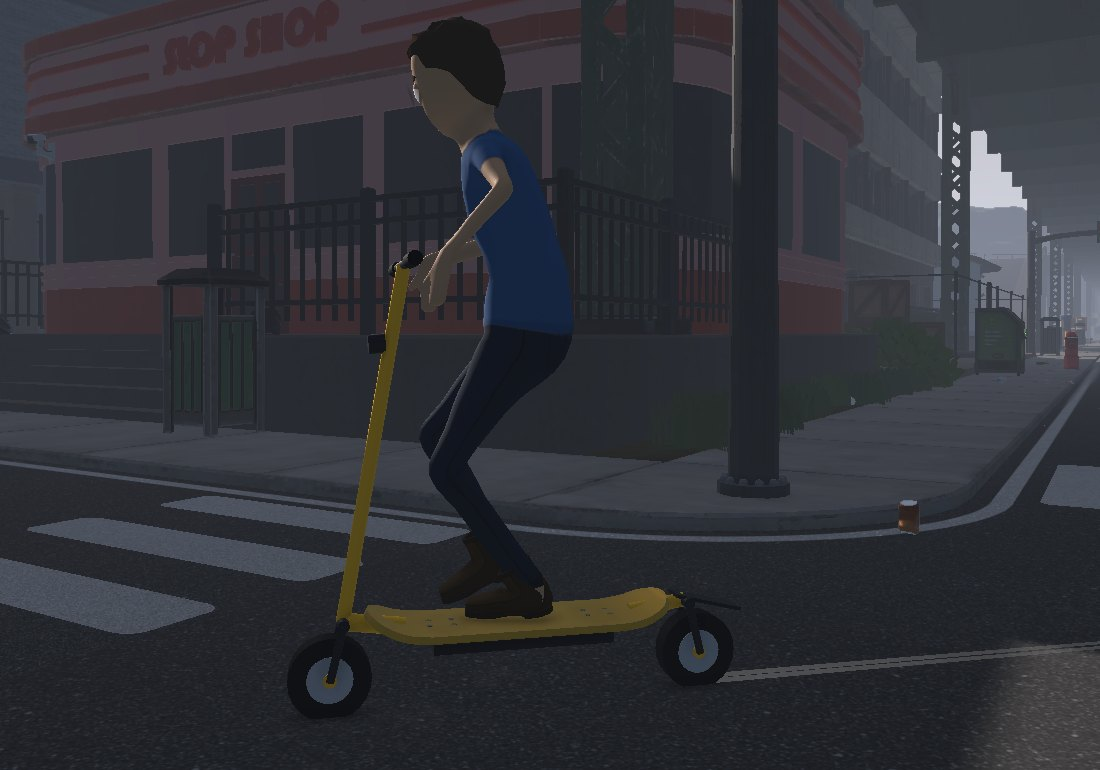
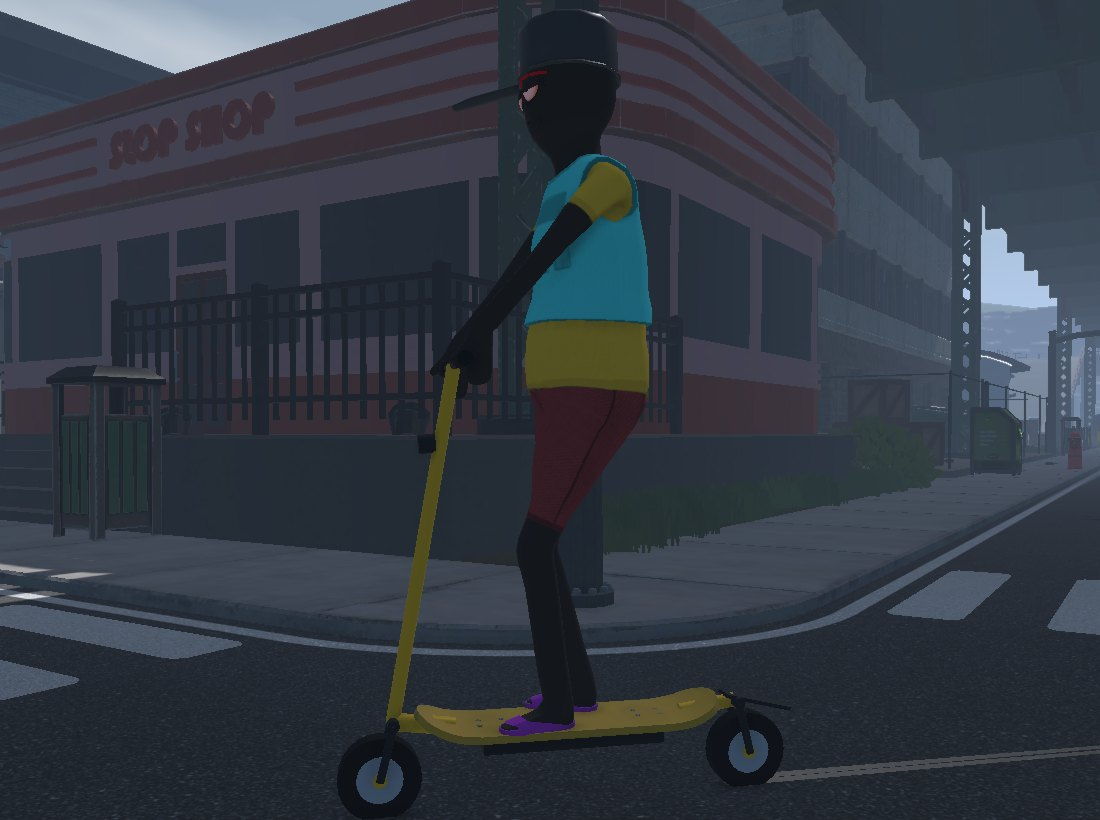
Electric Scooter 1.1.0: no shop stutter, forward stance, no kick
- The skate shop's seller is looked for once per loaded save instead of
  through every loaded object every 3 seconds (a short stutter on big
  saves, found by RebornReaper).
- The rider stands facing forward with both feet on the deck and no
  longer kicks the road when the scooter speeds up.
- Mounting lifted the board twice, so it dropped from up to 70 cm and
  could throw the rider off with a high StepHeightCm.
- Tests: mount height and seller search checks, a push screenshot, and a
  retry when the player falls through the ground after a teleport.
- make_media picks the newest run by its time stamp; new ride images.

diff --git a/mods/ElectricScooter/src/ScooterModel.cs b/mods/ElectricScooter/src/ScooterModel.cs
@@ -41,6 +41,7 @@ internal static class ScooterModel
         _riddenAnimation = board.Animation;
         if (_ridden == null)
             return;
+        Pose(board, _ridden);
         // The speed trails of the skateboard's rear wheels move down to where the scooter's wheel meets the road.
         var effects = UiKit.Get<S1.Skating.SkateboardEffects>(board);
         if (effects == null || effects.Trails == null)
@@ -218,6 +219,77 @@ internal static class ScooterModel
 
     private static bool _handsFailed;
 
+    /// <summary>Feet: how far apart (each from the middle) and how far the left one is ahead of the right.</summary>
+    private const float FootSpread = 0.075f;
+    private const float FootStagger = 0.1f;
+
+    /// <summary>
+    /// The rider stands on the scooter facing forward, feet side by side, instead of sideways like on a
+    /// skateboard; and he no longer kicks the road (the motor pushes). The rider's body follows targets
+    /// on the board (feet, knees, pelvis, spine, hands) and looks at a point to the front right: the
+    /// hips and feet are turned forward, the feet and knees put on the narrow deck, and the point moved
+    /// straight ahead. A push moves the body from a resting set of targets to a kicking one; both are
+    /// made the resting one.
+    /// </summary>
+    private static void Pose(S1.Skating.Skateboard board, Transform parts)
+    {
+        try
+        {
+            var animation = board.Animation;
+            foreach (var set in new[]
+                     {
+                         animation.PelvisContainerAlignment, animation.PelvisAlignment, animation.SpineContainerAlignment, animation.SpineAlignment,
+                         animation.LeftFootAlignment, animation.RightFootAlignment, animation.LeftLegBendTarget, animation.RightLegBendTarget,
+                         animation.LeftHandAlignment, animation.RightHandAlignment,
+                     })
+            {
+                if (set != null && set.Default != null)
+                    set.Animated = set.Default;
+            }
+            var up = parts.up;
+            var hips = Vector3.ProjectOnPlane(animation.PelvisAlignment.Transform.forward, up);
+            var turn = Quaternion.AngleAxis(Vector3.SignedAngle(hips, parts.forward, up), up);
+            // The pelvis container carries the spine and the hands with it.
+            Turn(animation.PelvisContainerAlignment, turn);
+            Turn(animation.LeftFootAlignment, turn);
+            Turn(animation.RightFootAlignment, turn);
+            if (animation.AvatarFaceTarget != null)
+                animation.AvatarFaceTarget.position = parts.TransformPoint(new Vector3(0f, 1.7f, 2f));
+            Put(animation.LeftFootAlignment, parts, -FootSpread, FootStagger / 2f);
+            Put(animation.RightFootAlignment, parts, FootSpread, -FootStagger / 2f);
+            // Knees bend forward, over the toes.
+            PutAt(animation.LeftLegBendTarget, parts.TransformPoint(new Vector3(-0.12f, 0.45f, 0.8f)));
+            PutAt(animation.RightLegBendTarget, parts.TransformPoint(new Vector3(0.12f, 0.45f, 0.8f)));
+        }
+        catch (Exception ex)
+        {
+            MelonLogger.Warning($"Electric Scooter: the rider keeps the skateboard stance: {ex.Message}");
+        }
+    }
+
+    /// <summary>A foot on the deck at x / z in the deck's frame, at the height the game gave it.</summary>
+    private static void Put(S1.Skating.SkateboardAnimation.AlignmentSet set, Transform parts, float x, float z)
+    {
+        var height = parts.InverseTransformPoint(set.Transform.parent.TransformPoint(set.Default.localPosition)).y;
+        PutAt(set, parts.TransformPoint(new Vector3(x, height, z)));
+    }
+
+    private static void Turn(S1.Skating.SkateboardAnimation.AlignmentSet set, Quaternion turn)
+    {
+        var local = Quaternion.Inverse(set.Transform.parent.rotation) * turn * set.Transform.rotation;
+        set.Default.localRotation = local;
+        set.Animated = set.Default;
+        set.Transform.localRotation = local;
+    }
+
+    private static void PutAt(S1.Skating.SkateboardAnimation.AlignmentSet set, Vector3 world)
+    {
+        var local = set.Transform.parent.InverseTransformPoint(world);
+        set.Default.localPosition = local;
+        set.Animated = set.Default;
+        set.Transform.localPosition = local;
+    }
+
     private static void Place(S1.Skating.SkateboardAnimation animation, Vector3 grip, params S1.Skating.SkateboardAnimation.AlignmentSet[] sets)
     {
         var local = animation.HandContainer.InverseTransformPoint(grip);
@@ -247,6 +319,25 @@ internal static class ScooterModel
             if (child.name is "Column" or "Handlebar" or "Tyre")
                 sb.AppendLine().Append($"  {child.name}: {root.InverseTransformPoint(child.position)} up {root.InverseTransformDirection(child.up)} size {child.lossyScale}");
         }
+        return sb.ToString();
+    }
+
+    /// <summary>Where the rider's targets are, in the deck's frame (x right, y up, z forward).</summary>
+    public static string DescribePose(S1.Skating.Skateboard board)
+    {
+        var parts = FindParts(board.transform);
+        if (parts == null)
+            return "no parts";
+        var a = board.Animation;
+        string At(Transform? t) => t == null ? "none" : $"{parts.InverseTransformPoint(t.position).ToString("F3")} forward {parts.InverseTransformDirection(t.forward).ToString("F2")}";
+        var sb = new System.Text.StringBuilder();
+        sb.Append($"player container {At(board.PlayerContainer)}; targets {UnityQuery.PathOf(board.PlayerContainer.parent)}; face target {At(a.AvatarFaceTarget)}; push animation on {(a.IKAnimation != null ? UnityQuery.PathOf(a.IKAnimation.transform) : "none")}");
+        foreach (var (name, set) in new[]
+                 {
+                     ("pelvis", a.PelvisAlignment), ("spine", a.SpineAlignment), ("left foot", a.LeftFootAlignment), ("right foot", a.RightFootAlignment),
+                     ("left knee", a.LeftLegBendTarget), ("right knee", a.RightLegBendTarget), ("left hand", a.LeftHandAlignment), ("right hand", a.RightHandAlignment),
+                 })
+            sb.AppendLine().Append($"  {name}: {At(set.Transform)}; resting {set.Default.name}, animated {(set.Animated != null ? UnityQuery.PathOf(set.Animated) : "none")}");
         return sb.ToString();
     }
 #endif

diff --git a/mods/ElectricScooter/src/Dev/ScooterSmoke.cs b/mods/ElectricScooter/src/Dev/ScooterSmoke.cs
@@ -339,15 +339,38 @@ internal static class ScooterSmoke
         inventory.Equip(slot!);
         yield return 0.6f;
         DevSmoke.Check(UnityQuery.TryCastTo<S1.Skating.Skateboard_Equippable>(inventory.Equippable, out var equippable), $"{itemId} is not held as a skateboard");
+        // Now and then the player drops through the ground after the teleport, already before the scooter
+        // is taken in hand: put him back rather than test the ride in free fall.
+        for (var tries = 0; tries < 3 && player.transform.position.y < lane.Start.y - 1f; tries++)
+        {
+            DevSmoke.Log($"The player fell through the ground (y {F(player.transform.position.y)}) before getting on {itemId}: teleporting again");
+            movement.Teleport(lane.Start + Vector3.up * 0.15f);
+            yield return 1f;
+            player.transform.rotation = Quaternion.LookRotation(lane.Direction, Vector3.up);
+        }
         if (screenshot != null)
             yield return DevSmoke.Screenshot(screenshot + "_held");
         equippable.Mount();
         yield return DevSmoke.WaitUntil(() => player.ActiveSkateboard != null, 5f, "mounting " + itemId);
         var board = player.ActiveSkateboard;
-        yield return 0.8f;
+        var settle = new StringBuilder();
+        var mounted = Time.time;
+        // The scooter is put on its wheels at once: never higher than that, no drop from above.
+        var highest = board != null ? board.transform.position.y + (itemId == ScooterItem.Id ? ScooterRide.HoverHeight - 0.096f : 0f) + 0.08f : 0f;
+        var top = 0f;
+        while (board != null && Time.time - mounted < 0.8f)
+        {
+            top = Mathf.Max(top, board.transform.position.y);
+            settle.Append($" {F(Time.time - mounted)}s:{F(board.transform.position.y)}m/v{F(board.Rb.velocity.y)}/h{F(board.CurentSettings.HoverHeight)}/{F(Vector3.Angle(board.transform.up, Vector3.up))}°");
+            yield return null;
+        }
+        DevSmoke.Log($"After mounting {itemId} (time: height / vertical speed / hover setting / tilt):{settle}; still riding: {board != null}");
+        DevSmoke.Check(board != null, $"thrown off {itemId} right after mounting");
+        DevSmoke.Check(top <= highest, $"{itemId} jumped up to {F(top)} m on mounting (at most {F(highest)} expected)");
         if (screenshot != null)
         {
             DevSmoke.Log("Riding model: " + ScooterModel.Describe(board.transform));
+            DevSmoke.Log("Rider pose: " + ScooterModel.DescribePose(board));
             SideShot(board.transform, new Vector3(-2.6f, 0.9f, 0.3f), screenshot + "_left");
             SideShot(board.transform, new Vector3(1.6f, 1.2f, 2.2f), screenshot + "_front");
             SideShot(board.transform, new Vector3(1.4f, 1.3f, -2.0f), screenshot + "_rear");
@@ -358,6 +381,7 @@ internal static class ScooterSmoke
         var slowSince = -1f;
         result.MinStamina = movement.CurrentStaminaReserve;
         var shot = false;
+        var pushShot = false;
         while (Time.time - began < 22f)
         {
             if (board == null)
@@ -387,6 +411,12 @@ internal static class ScooterSmoke
                 ScreenCapture.CaptureScreenshot(System.IO.Path.Combine(DevSmoke.OutDir, screenshot + "_riding.png"));
                 SideShot(board.transform, new Vector3(-2.6f, 0.8f, 0.6f), screenshot + "_moving");
                 DevSmoke.Log($"Held model while riding ({screenshot}): riding {equippable.IsRiding}, container {UnityQuery.PathOf(equippable.ModelContainer)} at {V(equippable.ModelContainer.localPosition)}, raised {V(equippable.ModelPosition_Raised.localPosition)}, lowered {V(equippable.ModelPosition_Lowered.localPosition)}");
+            }
+            // Halfway through a push: the moment the skateboarder kicks the road.
+            if (screenshot != null && !pushShot && result.Seconds > 1.5f && board.TimeSincePushStart > 0.35f && board.TimeSincePushStart < 0.55f)
+            {
+                pushShot = true;
+                SideShot(board.transform, new Vector3(-2.6f, 0.8f, 0.6f), screenshot + "_push");
             }
             if (travelled >= lane.Length - 5f)
             {
@@ -440,6 +470,12 @@ internal static class ScooterSmoke
 
         // Straight line: speed and stamina.
         var flat = FindLane(home, mask, 75f, withCurb: false);
+        if (flat == null)
+        {
+            // A real save may start indoors: the street by the new game's start has both kinds of lanes.
+            home = new Vector3(-30f, 0f, 50f);
+            flat = FindLane(home, mask, 75f, withCurb: false);
+        }
         DevSmoke.Check(flat != null, "no straight paved lane found near the start");
         DevSmoke.Log($"Flat lane of {F(flat!.Length)} m from {V(flat.Start)} towards {V(flat.Direction)}; player was at {V(home)}");
         var goldenFlat = new RideResult();
@@ -469,6 +505,9 @@ internal static class ScooterSmoke
         yield return RideLane(ScooterItem.Id, curb, scooterCurb, "curb");
         DevSmoke.Log("Electric scooter, curb: " + Describe(scooterCurb));
         DevSmoke.Check(scooterCurb.Finished && scooterCurb.StuckSeconds < 0.5f, "the scooter got stuck at the curb");
+        // The whole ride took over a minute in one scene: the shop looked for its seller once.
+        DevSmoke.Log($"Skate shop searches: {ScooterShop.Searches}");
+        DevSmoke.Check(ScooterShop.Searches == 1, $"the shop searched for the seller {ScooterShop.Searches} times");
         DevSmoke.Finish(true, "ride done");
     }
 

diff --git a/mods/ElectricScooter/src/ScooterShop.cs b/mods/ElectricScooter/src/ScooterShop.cs
@@ -5,26 +5,54 @@ using UnityEngine;
 
 namespace ElectricScooter;
 
-/// <summary>Adds the scooter to the skate shop: one more option in the seller's dialogue.</summary>
+/// <summary>
+/// Adds the scooter to the skate shop: one more option in the seller's dialogue.
+///
+/// Finding the seller means going through every loaded object, which takes a noticeable moment on a
+/// big save, so it is done once per scene: the seller found is kept until its scene unloads. Where no
+/// seller turns up (a scene without the shop), the searches get rarer.
+/// </summary>
 internal static class ScooterShop
 {
     private const float CheckInterval = 3f;
+    private const float MaxSearchInterval = 60f;
 
+    private static S1.Dialogue.DialogueController_SkateboardSeller? _seller;
     private static float _nextCheck;
+    private static float _nextSearch;
+    private static float _searchInterval = CheckInterval;
     private static bool _failed;
 
     public static void Tick()
     {
-        if (_failed || Time.unscaledTime < _nextCheck)
+        var now = Time.unscaledTime;
+        if (_failed || now < _nextCheck)
             return;
-        _nextCheck = Time.unscaledTime + CheckInterval;
+        _nextCheck = now + CheckInterval;
+        if (_seller != null)
+            return;
+        if ((object?)_seller != null)
+        {
+            // Destroyed with its scene: the next scene has its own seller.
+            _seller = null;
+            _nextSearch = 0f;
+            _searchInterval = CheckInterval;
+        }
         var definition = ScooterItem.Definition;
-        if (definition == null || S1.PlayerScripts.Player.Local == null)
+        if (definition == null || S1.PlayerScripts.Player.Local == null || now < _nextSearch)
             return;
+        _nextSearch = now + _searchInterval;
+        _searchInterval = Mathf.Min(_searchInterval * 2f, MaxSearchInterval);
+#if DEV
+        Searches++;
+#endif
         try
         {
             foreach (var seller in UnityQuery.FindInScenes<S1.Dialogue.DialogueController_SkateboardSeller>())
+            {
                 Stock(seller, definition);
+                _seller = seller;
+            }
         }
         catch (Exception ex)
         {
@@ -54,4 +82,9 @@ internal static class ScooterShop
         });
         MelonLogger.Msg($"Electric Scooter is now sold at the skate shop for ${Config.Price:0}");
     }
+
+#if DEV
+    /// <summary>How many times the shop searched the loaded objects for the seller (should stay at 1 per scene).</summary>
+    public static int Searches;
+#endif
 }

diff --git a/tools/make_media.py b/tools/make_media.py
@@ -36,7 +36,7 @@ SHOTS = [
     ("guidearrows-glow-street.jpg", "GuideArrows-media-il2cpp-beta-20261003-224906", "media_people_4_open.png", (200, 40, 1500, 820)),
     ("guidearrows-glow-stash.jpg", "GuideArrows-media-il2cpp-beta-20261003-224906", "media_stash_6.png", (420, 40, 1500, 800)),
     ("quietpause-settings.jpg", "QuietPause-audio-il2cpp-20260930-212727", "audio_settings.png", (480, 260, 1440, 820)),
-    ("electricscooter-ride.jpg", "ElectricScooter-ride-il2cpp-*", "curb_moving.png", (280, 100, 1380, 870)),
+    ("electricscooter-ride.jpg", "ElectricScooter-ride-il2cpp-*", "curb_moving.png", (230, 0, 1330, 820)),
     ("electricscooter-front.jpg", "ElectricScooter-ride-il2cpp-*", "scooter_front.png", (250, 0, 1350, 900)),
     ("electricscooter-shop.jpg", "ElectricScooter-shop-il2cpp-*", "shop_choices.png", (460, 380, 1460, 1080)),
     ("electricscooter-held.jpg", "ElectricScooter-shop-il2cpp-*", "held_after_reload.png", (380, 480, 1920, 1080)),
@@ -44,7 +44,8 @@ SHOTS = [
 
 
 def latest(pattern: str, file: str) -> pathlib.Path:
-    runs = sorted((p for p in RUNS.glob(pattern) if (p / file).exists()), key=lambda p: p.name)
+    # By the run's time stamp at the end of the name ("...-il2cpp-beta-<stamp>" would sort after "...-il2cpp-<stamp>").
+    runs = sorted((p for p in RUNS.glob(pattern) if (p / file).exists()), key=lambda p: p.name[-15:])
     if not runs:
         raise FileNotFoundError(f"{pattern}/{file}")
     return runs[-1] / file

diff --git a/mods/ElectricScooter/src/ScooterRide.cs b/mods/ElectricScooter/src/ScooterRide.cs
@@ -72,10 +72,11 @@ internal static class ScooterRide
     {
         _board = board;
         Tune(board);
-        // The game spawned the board at a skateboard's height; put it on its wheels at once.
-        var lift = board.transform.up * (HoverHeight - VanillaHoverHeight);
-        board.transform.position += lift;
-        board.Rb.position += lift;
+        // The game spawned the board at a skateboard's height; put it on its wheels at once. (The body
+        // follows the moved transform: lifting both would lift it twice, and it would drop from there.)
+        var position = board.transform.position + board.transform.up * (HoverHeight - VanillaHoverHeight);
+        board.transform.position = position;
+        board.Rb.position = position;
         var movement = S1.PlayerScripts.PlayerMovement.Instance;
         _stamina = movement != null ? Mathf.Max(movement.CurrentStaminaReserve, MinPushStamina) : MinPushStamina;
         ScooterModel.Dress(board);

diff --git a/mods/ElectricScooter/src/ModInfo.cs b/mods/ElectricScooter/src/ModInfo.cs
@@ -3,7 +3,7 @@ namespace ElectricScooter;
 internal static class ModInfo
 {
     public const string Name = "ElectricScooter";
-    public const string Version = "1.0.0";
+    public const string Version = "1.1.0";
     public const string Author = "BbIJABNPOBATEJb";
     public const string DownloadLink = "https://github.com/BbIJABNPOBATEJb/ScheduleI-Mods";
 }

diff --git a/mods/ElectricScooter/README.md b/mods/ElectricScooter/README.md
@@ -23,11 +23,12 @@ stamina and is 30% faster.
   the same steering, braking and jumping.
 - **Does not stop at curbs.** Skateboards ride so low that every curb of Hyland Point (9 cm) stops
   them. The scooter rides on big wheels and clears steps up to 20 cm.
-- **No stamina.** It is electric: pushing off costs nothing, so you never have to stop and catch
-  your breath.
+- **No stamina.** It is electric: the motor pushes while you just stand, so you never have to
+  stop and catch your breath.
 - **30% faster** than the Golden Skateboard — top speed and acceleration alike.
-- Its own look: big wheels, steering column with a handlebar (your character holds on to it), headlight
-  and a battery under the deck. In your hands it is carried folded.
+- Its own look: big wheels, steering column with a handlebar, headlight and a battery under the
+  deck. Your character stands facing forward with both hands on the handlebar instead of sideways
+  like on a skateboard. In your hands it is carried folded.
 - Translated into all [Polyglot](../Polyglot) languages.
 
 ## Installation
@@ -56,7 +57,7 @@ InfiniteStamina = true  # riding does not use stamina
 ```
 
 Edit the file while the game is closed. If you change the values with an in-game preferences
-editor, they apply the next time you get on the scooter.
+editor, they apply the next time you get on the scooter (the price: the next time you load a save).
 
 ## Multiplayer
 

diff --git a/mods/ElectricScooter/CHANGELOG.md b/mods/ElectricScooter/CHANGELOG.md
@@ -1,5 +1,17 @@
 # Changelog
 
+## 1.1.0 - 2026-10-31
+
+- Fixed a short stutter every 3 seconds on big saves: the mod kept looking for the skate shop's
+  seller through every loaded object. It now looks once per loaded save. Thanks to RebornReaper for
+  tracking it down.
+- The rider stands facing forward with both feet on the deck and both hands on the handlebar,
+  instead of sideways like on a skateboard.
+- No more kicking the road to speed up: the motor does the pushing.
+- Getting on no longer makes the scooter jump up and drop (it was lifted twice). With a high
+  `StepHeightCm` the drop could throw you off.
+- A price changed in the preferences while playing applies the next time a save is loaded.
+
 ## 1.0.0 - 2026-10-01
 
 - First release.
